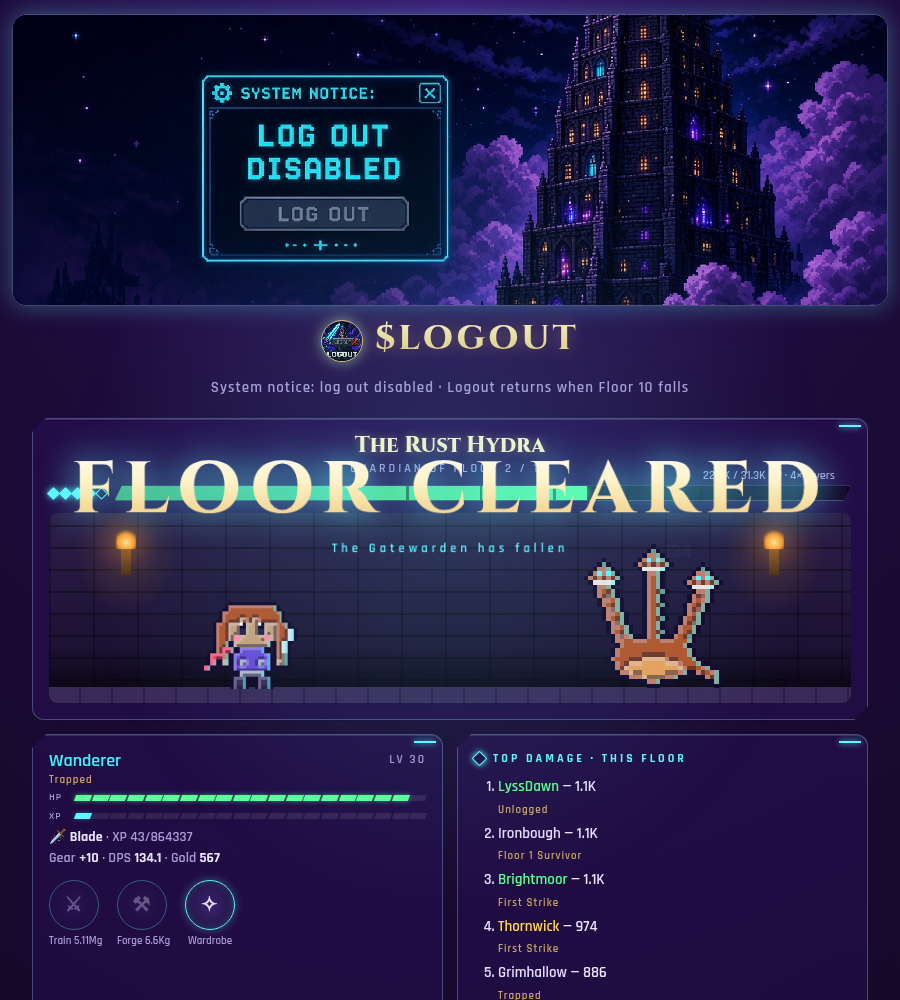
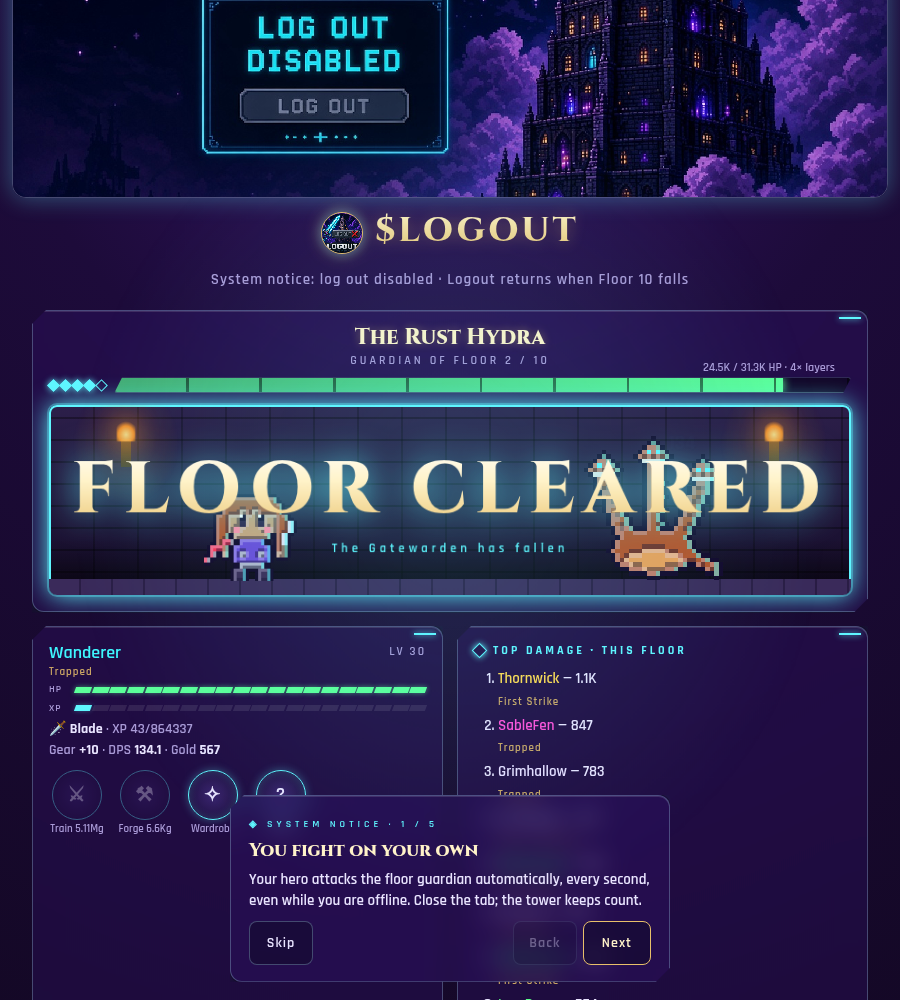
Mobile layout (dock, 44px targets, safe areas, scrollable wardrobe) + skippable intro walkthrough with ? guide button

diff --git a/js/main.js b/js/main.js
@@ -75,7 +75,9 @@ async function startGame(fresh = false) {
   floor = await be.getFloor(); log(`${save.heroes[0].name} awoke on Floor ${floor.floor}. The guardian stirs.`); log('System notice: log out disabled.');
   if (fresh) { notice('Log out disabled'); setTimeout(() => notice(`Floor ${floor.floor} is open`), 900); } // no replayed notices on reload
   $('lvl').onclick = () => buy('level'); $('gear').onclick = () => buy('gear'); $('wardrobeBtn').onclick = openWardrobe;
+  $('helpBtn').onclick = () => tourShow(0); placeDock();
   setInterval(tick, 1000); setInterval(sync, 5000); render(); renderLb();
+  if (!save.tutorialSeen) setTimeout(startTour, fresh ? 1600 : 400);
 }
 function tick() {
   const p = accrue(save, Date.now(), OFFLINE_CAP_HOURS);
@@ -109,7 +111,7 @@ function render() {
   const hp = 0.85 + 0.15 * Math.abs(Math.sin(Date.now() / 3000)); $('hhp').innerHTML = Array.from({ length: 20 }, (_, i) => `<i class="${i / 20 < hp ? '' : 'off'}"></i>`).join('');
   const xp = h.xp / xpToNext(h.level); $('hxp').innerHTML = Array.from({ length: 20 }, (_, i) => `<i class="${i / 20 < xp ? '' : 'off'}"></i>`).join('');
   $('stats').innerHTML = `${CLASSES[h.cls].icon} <b>${h.cls}</b> · XP ${h.xp}/${xpToNext(h.level)}<br>Gear <b>+${h.gear}</b> · DPS <b>${heroDps(h).toFixed(1)}</b> · Gold <b>${fmt(save.gold)}</b>`;
-  $('lvlL').textContent = `Train ${fmt(levelCost(h))}g`; $('lvl').disabled = save.gold < levelCost(h);
+  $('lvlL').textContent = `Train ${fmt(levelCost(h))}g`; $('lvl').title = `Train: +1 level for ${fmt(levelCost(h))} gold`; $('lvl').disabled = save.gold < levelCost(h);
   $('gearL').textContent = `Forge ${fmt(gearCost(h))}g`; $('gear').disabled = save.gold < gearCost(h);
 }
 async function renderLb() {
@@ -119,4 +121,29 @@ async function renderLb() {
     return `<li class="${me ? 'me' : ''}" value="${r.rank}"><span style="color:${pr.color}">${esc(r.name)}</span> — ${fmt(r.damage)}<br><span class="ttl">${esc(pr.title)}</span></li>`;
   }).join('');
 }
+// ---- intro walkthrough (System notice voice). Seen flag lives in the save; the ? button reopens it.
+const TOUR = [
+  { t: 'You fight on your own', x: 'Your hero attacks the floor guardian automatically, every second, even while you are offline. Close the tab; the tower keeps count.', el: () => $('arena') },
+  { t: 'Gold and XP', x: 'Every hit pays out: 10% of your damage becomes gold and 5% becomes XP. Fill the XP bar to level up and hit harder.', el: () => $('stats') },
+  { t: 'Train · Forge · Wardrobe', x: 'Train spends gold on a level. Forge tempers your gear for +15% damage per tier. Wardrobe changes your look; it is cosmetic only.', el: () => $('dock') },
+  { t: 'One guardian, whole server', x: 'Everyone in the tower shares this boss. Top damage when it falls earns titles, name colours and other rewards.', el: () => $('lb').closest('.panel') },
+  { t: 'Layers', x: 'The guardian\'s HP comes in layers: each diamond is one full HP bar. Break every layer to clear the floor and open the stair.', el: () => $('layers').closest('.gauge') },
+];
+let tourAt = -1;
+function tourShow(i) {
+  document.querySelectorAll('.tour-hi').forEach(e => e.classList.remove('tour-hi'));
+  if (i < 0 || i >= TOUR.length) { $('tour').classList.add('hidden'); tourAt = -1; if (!save.tutorialSeen) { save.tutorialSeen = true; be.saveSave(save); } return; }
+  tourAt = i; const s = TOUR[i], el = s.el();
+  $('tstep').textContent = `◈ System notice · ${i + 1} / ${TOUR.length}`; $('ttitle').textContent = s.t; $('ttext').textContent = s.x;
+  $('tback').disabled = i === 0; $('tnext').textContent = i === TOUR.length - 1 ? 'Done' : 'Next';
+  $('tour').classList.remove('hidden');
+  if (el) { el.classList.add('tour-hi'); el.scrollIntoView({ block: 'center', behavior: 'smooth' }); }
+}
+function startTour() { if ($('away').open) return $('away').addEventListener('close', startTour, { once: true }); tourShow(0); }
+$('tnext').onclick = () => tourShow(tourAt + 1); $('tback').onclick = () => tourShow(Math.max(0, tourAt - 1)); $('tskip').onclick = () => tourShow(TOUR.length);
+
+// On phones the action bar becomes a fixed dock; it must live under <body> because the glass panel's backdrop-filter traps position:fixed.
+const dockMQ = matchMedia('(max-width: 640px)'), dockHome = document.createComment('dock');
+function placeDock() { const d = $('dock'); if (dockMQ.matches) { if (d.parentNode !== document.body) { d.replaceWith(dockHome); document.body.append(d); } } else if (dockHome.parentNode) dockHome.replaceWith(d); }
+dockMQ.addEventListener('change', placeDock);
 boot();

diff --git a/style.css b/style.css
@@ -24,7 +24,7 @@ button:hover{border-color:var(--cy);box-shadow:0 0 12px var(--cyd);color:#fff}bu
 button.sel{border-color:var(--cy);background:rgba(95,246,255,.15);box-shadow:inset 0 0 10px var(--cyd)}
 .cta{border-color:var(--gold);color:#fff3c9;padding:10px 18px}
 .rb{width:50px;height:50px;border-radius:50%;font-size:20px;padding:0;background:radial-gradient(#3a2470,#1a0c35);border:1px solid var(--cy);box-shadow:0 0 10px var(--cyd),inset 0 0 8px #5ff6ff33}
-.btns{display:flex;gap:14px;margin-top:8px}.blabels{display:flex;gap:14px;font-size:11px;color:var(--mut)}.blabels span{width:50px;text-align:center;white-space:nowrap;overflow:visible;margin-right:4px}
+.btns{display:flex;gap:12px;margin-top:10px}.act{display:flex;flex-direction:column;align-items:center;gap:2px;min-width:56px}.act span{font-size:11px;color:var(--mut);white-space:nowrap}.act .rb{margin:0}
 /* boss */
 .plate{text-align:center;margin:-4px auto 8px}.bname{font:800 22px 'Cinzel',serif;color:#fff3c9;text-shadow:0 0 10px #e8c06a77}.bsub{font-size:12px;letter-spacing:3px;text-transform:uppercase;color:var(--mut)}
 .gauge{position:relative;display:flex;align-items:center;gap:8px}
@@ -75,3 +75,30 @@ dialog{color:var(--txt);max-width:92vw}dialog::backdrop{background:#0a0418aa;bac
 .slot{margin-bottom:8px}.slot b{display:block;color:var(--mut);font-size:11px;letter-spacing:2px;text-transform:uppercase}
 .opt{font-size:12px;padding:4px 8px;margin:2px}.opt i{display:inline-block;width:10px;height:10px;margin-right:5px;border-radius:50%;vertical-align:middle;border:1px solid #0008}
 .opt.locked{opacity:.35;filter:grayscale(1);cursor:not-allowed}.opt.locked:hover{box-shadow:none;border-color:var(--line)}
+
+/* intro walkthrough */
+#tour{position:fixed;left:50%;bottom:max(18px,env(safe-area-inset-bottom));transform:translateX(-50%);width:min(440px,calc(100vw - 24px));z-index:45;margin:0;padding:16px 18px}
+#tour small{letter-spacing:4px;font-size:10px;color:var(--cy);text-transform:uppercase}#tour h3{font:800 18px 'Cinzel',serif;color:#fff3c9;margin:4px 0 6px}#tour p{margin:0 0 10px;color:var(--txt);line-height:1.4}
+.tbtns{display:flex;gap:6px;align-items:center}.tbtns span{flex:1}.tbtns button{min-height:44px;min-width:64px;margin:0}
+.tour-hi{outline:2px solid var(--cy)!important;outline-offset:-2px;box-shadow:0 0 0 2px #5ff6ff55,0 0 26px var(--cy)!important;animation:hipulse 1.2s ease-in-out infinite!important;border-radius:10px}
+@keyframes hipulse{50%{outline-color:#fff3c9}}
+/* mobile (iPhone ~390px) */
+html,body{overflow-x:hidden}
+header{padding-top:max(14px,env(safe-area-inset-top))}main{padding-left:max(12px,env(safe-area-inset-left));padding-right:max(12px,env(safe-area-inset-right))}
+@media(max-width:640px){
+ body{font-size:15px}main{padding-bottom:calc(110px + env(safe-area-inset-bottom))}
+ header{padding:max(8px,env(safe-area-inset-top)) 8px 0}h1{font-size:26px}.logo{width:34px;height:34px}.sub{font-size:13px}.banner{border-radius:10px}
+ .panel,.win{padding:12px}#arena{height:170px}.sprite{transform:scale(2.4)}.boss{transform:scale(3.6)}.boss.big{transform:scale(4.4)}
+ #hptext{position:static;display:block;text-align:right;margin-bottom:2px}.gauge{flex-wrap:wrap}.gbar{flex-basis:100%}
+ body>#dock{display:flex}#game.hidden~#dock,body:has(#game.hidden)>#dock{display:none}
+ #dock{position:fixed;left:0;right:0;bottom:0;z-index:35;margin:0;justify-content:space-around;padding:8px max(8px,env(safe-area-inset-right)) calc(8px + env(safe-area-inset-bottom)) max(8px,env(safe-area-inset-left));
+  background:rgba(24,12,52,.86);backdrop-filter:blur(14px);-webkit-backdrop-filter:blur(14px);border-top:1px solid var(--line);box-shadow:0 -6px 24px #0008}
+ .rb{width:48px;height:48px}
+ button,input,.opt{min-height:44px}.opt{padding:6px 10px;margin:3px}input{width:100%;font-size:16px}
+ #classes button{min-width:30%}
+ dialog{max-width:calc(100vw - 16px);width:calc(100vw - 16px);max-height:calc(100dvh - 24px - env(safe-area-inset-top) - env(safe-area-inset-bottom));overflow-y:auto;-webkit-overflow-scrolling:touch;overscroll-behavior:contain;padding:14px}
+ #wardrobe{width:calc(100vw - 16px)}.wrow{flex-direction:column}.preview.big{width:128px;height:128px;margin:auto}#wpick,#cpick{min-width:0;width:100%}
+ #wardrobe>button{position:sticky;bottom:0;width:100%;background:rgba(30,15,65,.95)}
+ #tour{bottom:calc(92px + env(safe-area-inset-bottom))}
+ .notice{min-width:0;width:calc(100vw - 40px)}.tower{display:none}
+}

diff --git a/index.html b/index.html
@@ -1,4 +1,4 @@
-<!doctype html><html lang="en"><head><meta charset="utf-8"><meta name="viewport" content="width=device-width,initial-scale=1">
+<!doctype html><html lang="en"><head><meta charset="utf-8"><meta name="viewport" content="width=device-width,initial-scale=1,viewport-fit=cover"><meta name="theme-color" content="#140826">
 <title>$LOGOUT — Idle Tower</title>
 <style>html,body{background:#140826;color:#e9e4ff}</style>
 <link rel="preconnect" href="https://fonts.googleapis.com"><link href="https://fonts.googleapis.com/css2?family=Cinzel:wght@600;800&family=Rajdhani:wght@500;600;700&display=swap" rel="stylesheet">
@@ -22,13 +22,14 @@
   </div>
   <div class="row">
    <div class="panel win"><div class="hudtop"><div id="hname2"></div><div class="lv" id="hlv"></div></div><div class="segrow"><span>HP</span><div class="seg" id="hhp"></div></div><div class="segrow"><span>XP</span><div class="seg xp" id="hxp"></div></div><div id="stats"></div>
-    <div class="btns"><button id="lvl" class="rb" title="Train">⚔</button><button id="gear" class="rb" title="Forge">⚒</button><button id="wardrobeBtn" class="rb" title="Wardrobe">✧</button></div><div class="blabels"><span id="lvlL"></span><span id="gearL"></span><span>Wardrobe</span></div></div>
+    <nav class="btns" id="dock" aria-label="Actions"><div class="act"><button id="lvl" class="rb" title="Train" aria-label="Train">⚔</button><span id="lvlL">Train</span></div><div class="act"><button id="gear" class="rb" title="Forge" aria-label="Forge">⚒</button><span id="gearL">Forge</span></div><div class="act"><button id="wardrobeBtn" class="rb" title="Wardrobe" aria-label="Wardrobe">✧</button><span>Wardrobe</span></div><div class="act"><button id="helpBtn" class="rb" title="How to play" aria-label="How to play">?</button><span>Guide</span></div></nav></div>
    <div class="panel win"><h2>Top Damage · this floor</h2><ol id="lb"></ol></div>
   </div>
   <div class="panel win"><h2>Chronicle</h2><div class="log" id="log"></div></div>
  </section>
 </main>
 <dialog id="wardrobe" class="win"><h2>Wardrobe <small>· cosmetic only</small></h2><div class="wrow"><div><div id="wpreview" class="preview big"></div><div id="wname"></div></div><div id="wpick"></div></div><button onclick="this.closest('dialog').close()">Close</button></dialog>
+<div id="tour" class="win hidden" role="dialog" aria-live="polite"><small class="tstep" id="tstep"></small><h3 id="ttitle"></h3><p id="ttext"></p><div class="tbtns"><button id="tskip">Skip</button><span></span><button id="tback">Back</button><button id="tnext" class="cta">Next</button></div></div>
 <div id="notices"></div><div id="cleared"><span>FLOOR CLEARED</span><small id="clearedSub"></small></div>
 <dialog id="away" class="win"><h2>System notice · while you were away</h2><div id="awaytxt"></div><button onclick="this.closest('dialog').close()">Resume</button></dialog>
 <script type="module" src="js/main.js"></script></body></html>
